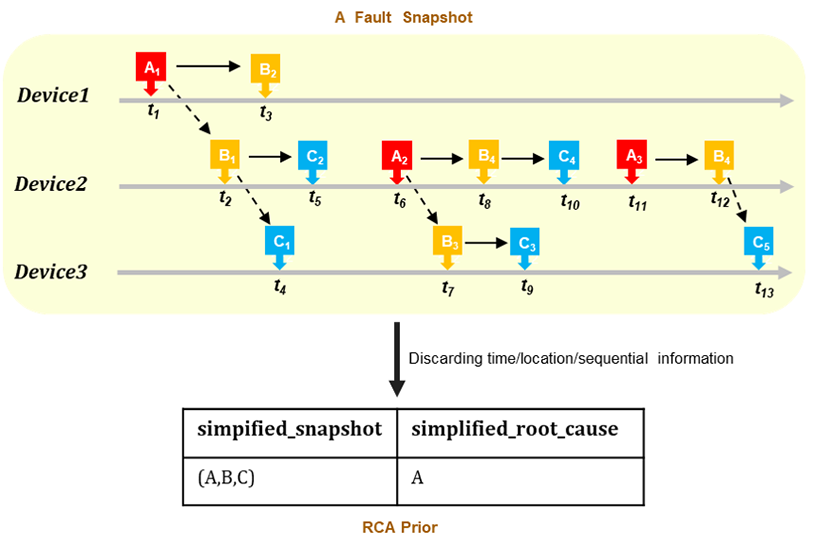
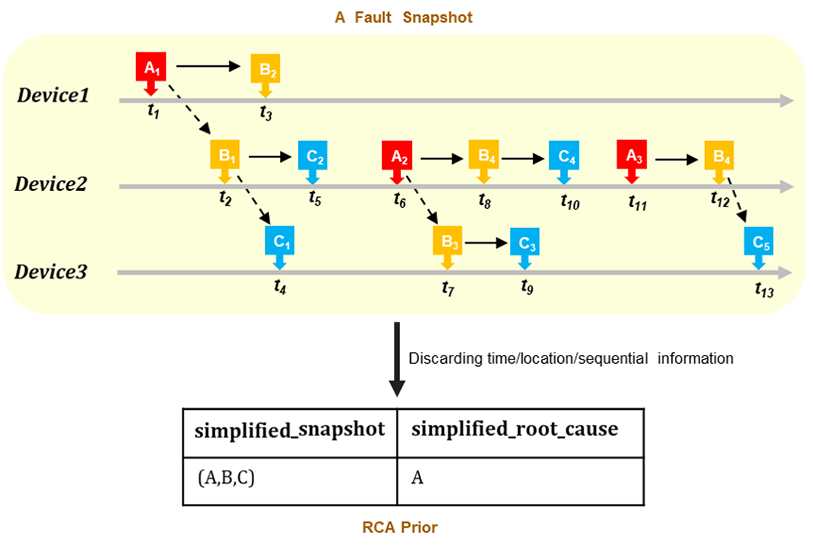
Fix word spelling

Changed region(s): [[0.2153, 0.7459, 0.492, 0.808]]

diff --git a/content/_index.md b/content/_index.md
@@ -60,9 +60,9 @@ Table 1: Dataset assignment over competition phases.
 
 <div style="text-align:center"><img src="assets/img/causal_prior.png" /><p>Figure 2: Causal Prior</p></div>
 
-**rca\_prior.npy (Optional):** Prior knowledge including some simplified fault snapshots and the corresponding RCA results.
+**rca\_prior.csv (Optional):** Prior knowledge including some simplified fault snapshots and the corresponding RCA results.
 
-+ **Format:** \[simpified\_snapshot, simplified\_root\_cause\]
++ **Format:** \[simplified\_snapshot, simplified\_root\_cause\]
 
 + **Description:** In the real-world RCA scenario, a fault snapshot contains detailed information on the network state (a series of alarms with occurrence time and occurrence location information) within the period a fault occurs, while simplified fault snapshots extract or compress the corresponding network state to an alarm type list ignoring the occurrence time/location and sequential information, and the corresponding RCA result is as well. Due to considering knowledge reusability, the simplified snapshots along with simplified RCA results (also can be regarded as RCA rules) are a common way to store considerable raw RCA cases in the AIOps field.
 
